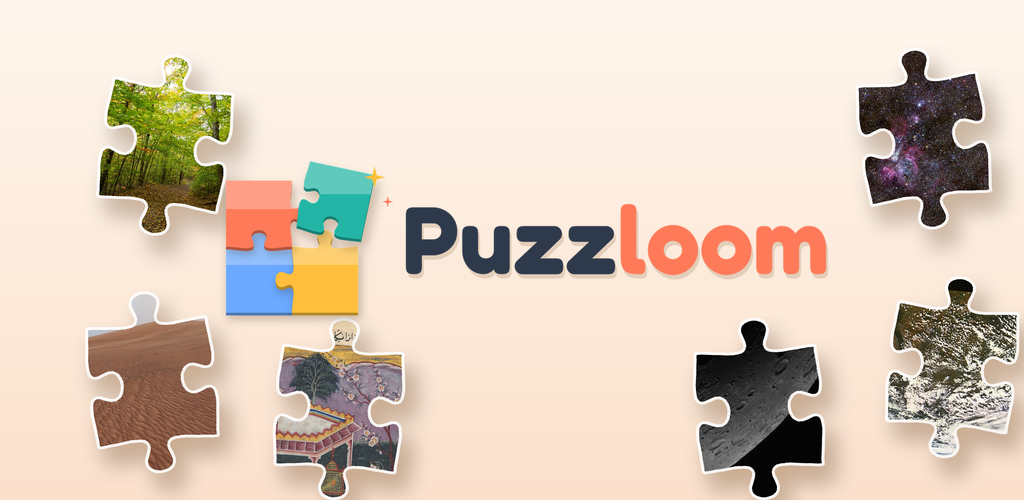
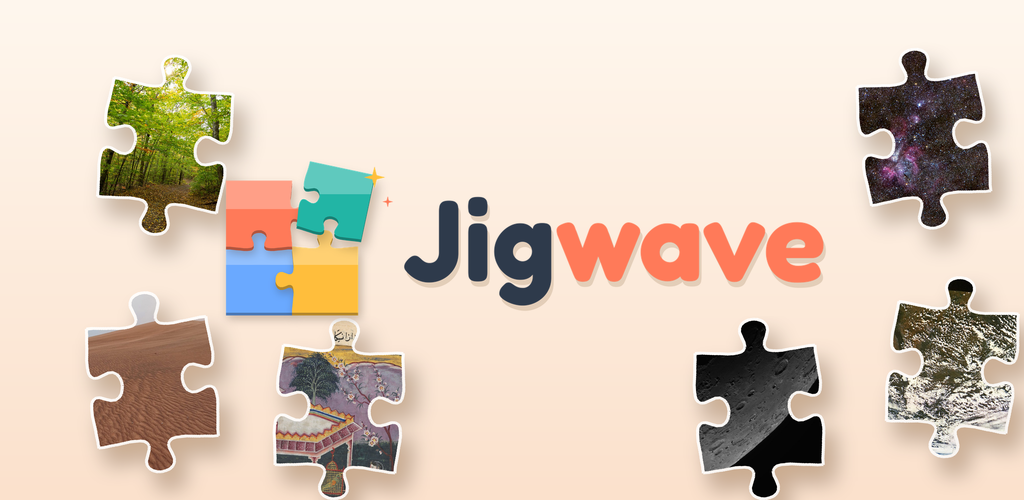
Rename the game to Jigwave
New name everywhere: project, Android package com.abdelrhmnismail.jigwave,
logo wordmark ('Jig' ink + 'wave' coral), icons, store graphics, docs and
release file names. New release key for Jigwave (kept in git-ignored keys/).

Changed region(s): [[0.375, 0.39, 0.8125, 0.63]]

diff --git a/tools/make_art.py b/tools/make_art.py
@@ -1,5 +1,5 @@
 #!/usr/bin/env python3
-"""Draws Puzzloom's own logo, app icons and store graphics (100% original).
+"""Draws Jigwave's own logo, app icons and store graphics (100% original).
 
     python3 -I tools/make_art.py
 
@@ -25,7 +25,7 @@ ROOT = Path(__file__).resolve().parent.parent
 IMG = ROOT / "assets" / "images"
 FONT = ROOT / "assets" / "fonts" / "Fredoka.ttf"
 
-# Puzzloom's warm, light identity (same colors as ui/ui_kit.gd).
+# Jigwave's warm, light identity (same colors as ui/ui_kit.gd).
 BG_TOP = (255, 247, 238)  # cream paper
 BG_BOTTOM = (251, 225, 204)  # warm peach
 INK = (46, 58, 75)
@@ -177,9 +177,9 @@ def font(px, weight=650):
 
 
 def wordmark(d, x, y, px):
-    """'Puzz' in ink + 'loom' in coral, with a soft warm shadow."""
+    """'Jig' in ink + 'wave' in coral, with a soft warm shadow."""
     f = font(px)
-    parts = [("Puzz", INK), ("loom", CORAL)]
+    parts = [("Jig", INK), ("wave", CORAL)]
     cx = x
     for text, color in parts:
         d.text((cx + px * 0.02, y + px * 0.045), text, font=f, fill=SHADOW + (45,))
@@ -213,7 +213,7 @@ def main():
     # Largest wordmark that fits next to the mark.
     px = 210 * SS
     room = W - 400 * SS - 20 * SS
-    while d.textlength("Puzzloom", font=font(px)) > room:
+    while d.textlength("Jigwave", font=font(px)) > room:
         px -= 4 * SS
     wordmark(d, 400 * SS, (H - px * 1.25) // 2, px)
     down(logo, (1200, 420)).save(IMG / "logo.png")

diff --git a/tools/make_audio.py b/tools/make_audio.py
@@ -1,5 +1,5 @@
 #!/usr/bin/env python3
-"""Generates Puzzloom's own sound effects and relaxing music (100% original).
+"""Generates Jigwave's own sound effects and relaxing music (100% original).
 
     python3 -I tools/make_audio.py
 

diff --git a/README.md b/README.md
@@ -1,4 +1,4 @@
-# 🧩 Puzzloom
+# 🧩 Jigwave
 
 An original jigsaw puzzle game made with **Godot 4.7** (GDScript), portrait, for Android.
 Free pictures (CC0 / public domain) are cut into real jigsaw pieces; drag them from the
@@ -34,7 +34,7 @@ python3 -I tools/make_audio.py   # sound effects + 4 relaxing music tracks
 
 ## 📦 Release build
 ```
-GODOT=/path/to/godot tools/export_release.sh   # build/puzzloom-release.aab + .apk
+GODOT=/path/to/godot tools/export_release.sh   # build/jigwave-release.aab + .apk
 ```
 The signing key and its password are in `keys/` (never committed — back it up in 3 places).
 Raise `version/code` in both Android presets before every Google Play upload.

diff --git a/PLAN.md b/PLAN.md
@@ -1,6 +1,6 @@
-# 🧩 Puzzloom — Full Plan (Godot 4 → Google Play)
+# 🧩 Jigwave — Full Plan (Godot 4 → Google Play)
 
-> **Name:** *Puzzloom* (puzzle + bloom: the picture blooms as you complete it). Store title: *Puzzloom: Jigsaw Puzzles*.
+> **Name:** *Jigwave* (jigsaw + wave: a calm wave of pictures, piece by piece). Store title: *Jigwave: Jigsaw Puzzles*.
 > **Rules:** an original jigsaw game. No images, sounds, code, name, or look from any
 > existing app. Every picture must be **CC0 or Public Domain** and is listed in
 > `assets/puzzles/CREDITS.md`. No photos of identifiable people (especially children).
